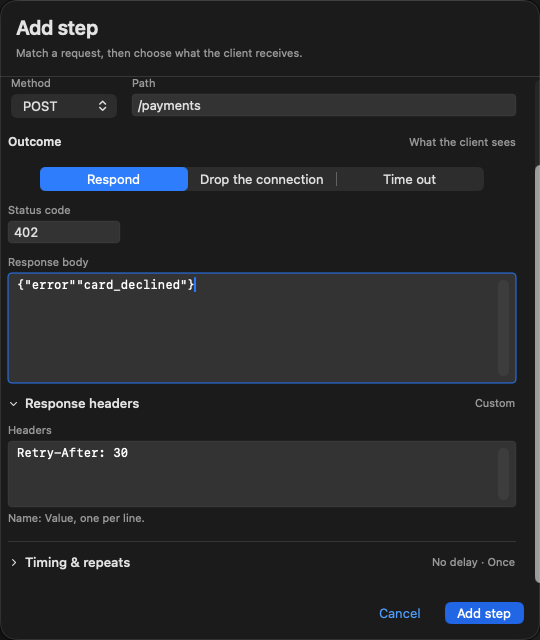
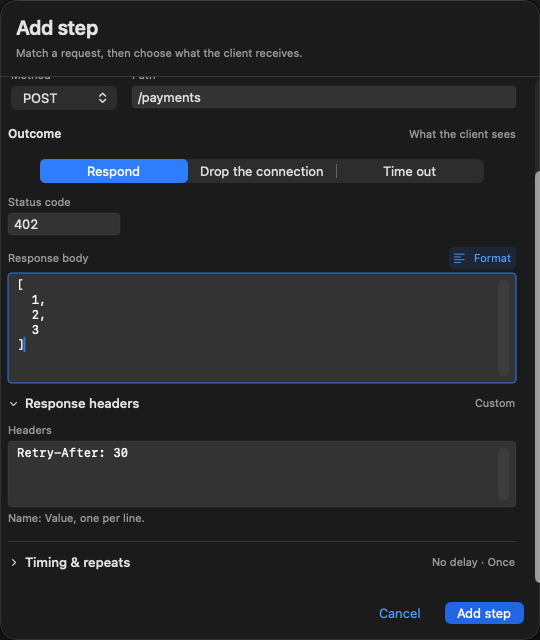
Add JSON formatting to journey step responses

diff --git a/MimicUITests/JourneyEditorUITests.swift b/MimicUITests/JourneyEditorUITests.swift
@@ -183,6 +183,8 @@ extension JourneyStepSheetPage {
         return app.descendants(matching: .any).matching(identifier: "stepSheet.bodyField").firstMatch
     }
 
+    var prettyPrintButton: XCUIElement { app.buttons["stepSheet.prettyPrintButton"] }
+
     /// The grouped Form scrolls inside a fixed sheet. XCUITest does not scroll an offscreen
     /// TextEditor into view before clicking it, so drive the form's visible scroll surface first.
     func reveal(_ field: XCUIElement, byScrollingUp: Bool) {
@@ -981,6 +983,8 @@ final class JourneyEditorUITests: MimicUITestCase {
 
         XCTAssertTrue(stepSheet.headersDisclosure.exists, "Optional headers should be discoverable")
         XCTAssertTrue(stepSheet.timingDisclosure.exists, "Timing should be discoverable without scrolling")
+        XCTAssertTrue(stepSheet.prettyPrintButton.exists, "The response body should offer JSON formatting")
+        XCTAssertFalse(stepSheet.prettyPrintButton.isEnabled, "An empty body cannot be formatted")
         XCTAssertFalse(stepSheet.headersField.exists, "A new step should keep optional headers collapsed")
         XCTAssertFalse(stepSheet.delayField.exists, "A new step should keep optional timing collapsed")
         let defaultScreenshot = XCTAttachment(screenshot: app.sheets.firstMatch.screenshot())
@@ -1028,7 +1032,24 @@ final class JourneyEditorUITests: MimicUITestCase {
         stepSheet.reveal(stepSheet.bodyField, byScrollingUp: true)
         XCTAssertTrue(stepSheet.bodyField.isHittable, "The response body should scroll into view")
         stepSheet.bodyField.click()
-        stepSheet.bodyField.typeText("{\"error\":\"card_declined\"}")
+        stepSheet.bodyField.typeText("not JSON")
+        XCTAssertFalse(stepSheet.prettyPrintButton.isEnabled,
+                       "Plain-text responses remain editable but cannot be JSON-formatted")
+        replaceText(in: stepSheet.bodyField, with: "[1,2,3]")
+        XCTAssertTrue(
+            UITestApp.waitUntil(timeout: 5) { self.stepSheet.prettyPrintButton.isEnabled },
+            "Format should enable when the body contains valid JSON"
+        )
+        stepSheet.prettyPrintButton.click()
+        XCTAssertTrue(
+            UITestApp.waitUntil(timeout: 5) {
+                (self.stepSheet.bodyField.value as? String)?.contains("\n") == true
+            },
+            "Format should reflow the compact JSON across lines"
+        )
+        let formattedBody = stepSheet.bodyField.value as? String ?? ""
+        XCTAssertTrue(formattedBody.contains("1") && formattedBody.contains("2") && formattedBody.contains("3"),
+                      "Formatting must preserve the response payload")
 
         let screenshot = XCTAttachment(screenshot: app.sheets.firstMatch.screenshot())
         screenshot.name = "journey-step-response-sheet"
@@ -1046,6 +1067,12 @@ final class JourneyEditorUITests: MimicUITestCase {
         )
         assertSpeaks(journeys.step(at: 0), contains: "/payments", "The step should keep its route")
         assertSpeaks(journeys.step(at: 0), contains: "responds 402", "The step should keep its status code")
+
+        journeys.step(at: 0).click()
+        XCTAssertTrue(stepSheet.bodyField.waitForExistence(timeout: 5), "The saved step should reopen")
+        XCTAssertTrue((stepSheet.bodyField.value as? String)?.contains("\n") == true,
+                      "The formatted body should survive saving and reopening")
+        stepSheet.cancelButton.click()
     }
 
     // MARK: - 6. The outcome control  (JRNSTEP-12/13)

diff --git a/Sources/AppFeatures/JourneyFeature/JourneyStepSheet.swift b/Sources/AppFeatures/JourneyFeature/JourneyStepSheet.swift
@@ -207,8 +207,26 @@ struct JourneyStepSheet: View {
                     .id(Field.statusCode)
                 DSMultilineField("Response body", text: $responseBody,
                                  height: DSControlHeight.field * 5,
-                                 identifier: "stepSheet.bodyField")
-                    .focused($focusedField, equals: .body)
+                                 identifier: "stepSheet.bodyField") {
+                    Button {
+                        if let formatted = DSJSONEditor.prettyPrint(responseBody) {
+                            responseBody = formatted
+                        }
+                    } label: {
+                        Label("Format", systemImage: "text.alignleft")
+                            .font(DSTypography.label)
+                            .foregroundStyle(canFormatBody ? DSColors.accentText : DSColors.labelTertiary)
+                            .padding(.horizontal, DSSpacing.xs)
+                            .frame(height: DSControlHeight.field)
+                            .contentShape(Rectangle())
+                    }
+                    .buttonStyle(.dsPlain)
+                    .disabled(!canFormatBody)
+                    .help("Pretty-print the JSON body")
+                    .accessibilityIdentifier("stepSheet.prettyPrintButton")
+                    .accessibilityLabel("Pretty-print JSON")
+                }
+                .focused($focusedField, equals: .body)
                 disclosureRow("Response headers", summary: headerText.isEmpty ? "None" : "Custom",
                               expanded: $headersExpanded, identifier: "stepSheet.headersDisclosure")
                 if headersExpanded {
@@ -324,6 +342,10 @@ struct JourneyStepSheet: View {
 
     private var trimmedPath: String {
         path.trimmingCharacters(in: .whitespacesAndNewlines)
+    }
+
+    private var canFormatBody: Bool {
+        !responseBody.isEmpty && DSJSONEditor.prettyPrint(responseBody) != nil
     }
 
     private func validationText(for field: Field) -> String? {

diff --git a/Sources/DesignSystem/Components/DSMultilineField.swift b/Sources/DesignSystem/Components/DSMultilineField.swift
@@ -6,6 +6,7 @@ public struct DSMultilineField: View {
     @Binding private var text: String
     private let height: CGFloat
     private let identifier: String
+    private let accessory: AnyView?
     @FocusState private var isFocused: Bool
 
     public init(_ title: String, text: Binding<String>, height: CGFloat, identifier: String) {
@@ -13,13 +14,30 @@ public struct DSMultilineField: View {
         self._text = text
         self.height = height
         self.identifier = identifier
+        self.accessory = nil
+    }
+
+    /// An action beside the field label, sharing its header row rather than floating over the editor.
+    public init<Accessory: View>(_ title: String, text: Binding<String>, height: CGFloat,
+                                 identifier: String, @ViewBuilder accessory: () -> Accessory) {
+        self.title = title
+        self._text = text
+        self.height = height
+        self.identifier = identifier
+        self.accessory = AnyView(accessory())
     }
 
     public var body: some View {
         VStack(alignment: .leading, spacing: DSSpacing.xs) {
-            Text(title)
-                .font(DSTypography.label)
-                .foregroundStyle(DSColors.labelSecondary)
+            HStack(spacing: DSSpacing.xs) {
+                Text(title)
+                    .font(DSTypography.label)
+                    .foregroundStyle(DSColors.labelSecondary)
+                if let accessory {
+                    Spacer(minLength: DSSpacing.xs)
+                    accessory
+                }
+            }
 
             TextEditor(text: $text)
                 .font(DSTypography.code)

diff --git a/docs/evidence/design-system-conformance/README.md b/docs/evidence/design-system-conformance/README.md
@@ -6,7 +6,7 @@ An independent design review checked hierarchy, spacing, color meaning, and narr
 
 The journey editor now gives the title room to wrap, names each step above its method and route, and keeps matching settings in a disclosure. Both short steps remain visible above the request log in the compact window. The inspector separates the selected journey from the active run; when the server is stopped, the run controls and inspector explain how Restart and Advance prepare the next start. Focused journey editing, grouping, inspector, breadcrumb, and compact-window UI flows passed.
 
-The Add step sheet now keeps the route, outcome and response body together in a flat form. Optional headers and timing stay visible as summary rows and open on demand; invalid header lines are explained before saving instead of being dropped silently. The screenshots below show the default form and a filled response with its headers expanded.
+The Add step sheet now keeps the route, outcome and response body together in a flat form. Optional headers and timing stay visible as summary rows and open on demand; invalid header lines are explained before saving instead of being dropped silently. Its Format action uses the endpoint editor's JSON formatter, becoming available for valid JSON while leaving plain-text responses editable. The screenshots below show the default form and a formatted response with its headers expanded.
 
 ## Workspace and navigator
 
